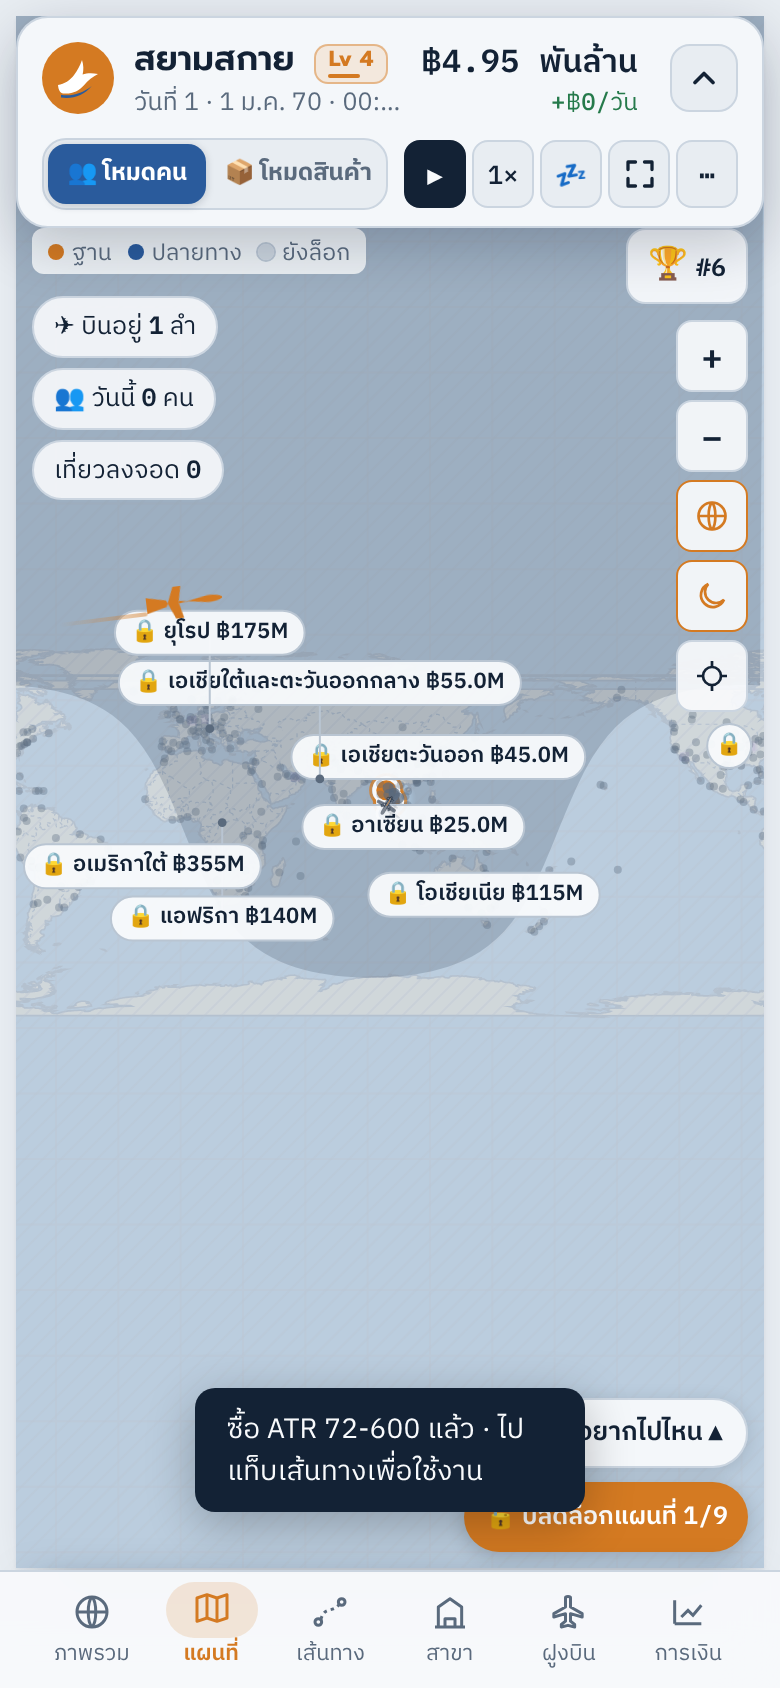
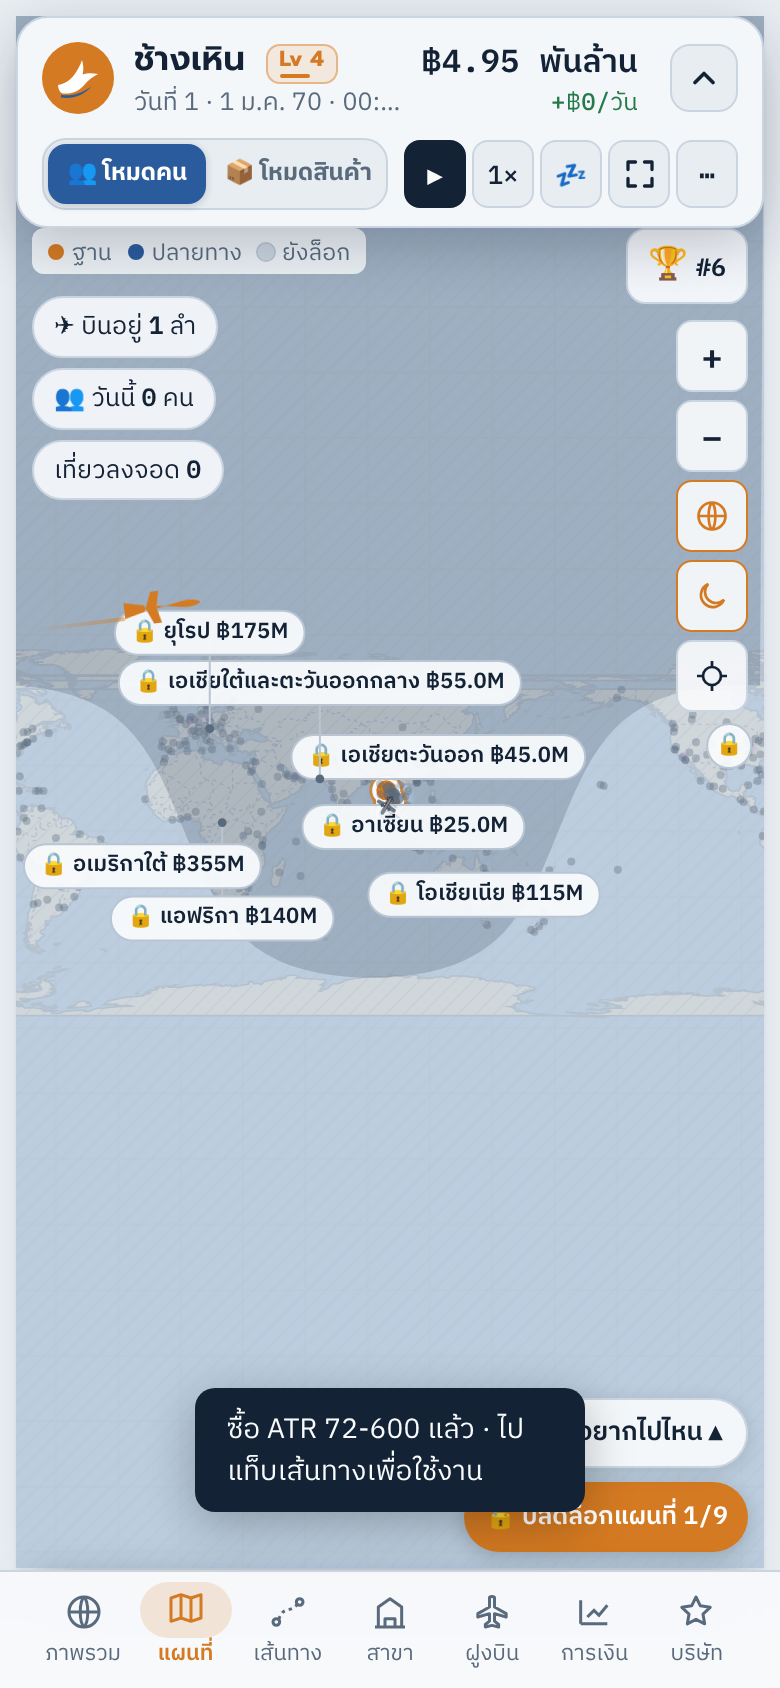
Company tab: clearer competition, and what customers want with action buttons
- Competition shows two labelled measures side by side: table rank (company size, cumulative) and weekly league
  (growth speed, sets rival difficulty), with a short 'what is the difference' note; per-rival results folded away
- 'What customers want': cities asking for a branch (with the unserved cities it would reach), the most wanted route,
  freight and sea-lane requests, a port branch, worn aircraft; each with a button that does it

Claude-Session: https://claude.ai/code/session_014RDu36NGZdJHnhfEAQskbE

diff --git a/js/game.js b/js/game.js
@@ -985,13 +985,23 @@ function leagueTick(){if(!has("rank")||!S.rivals||!S.rivals.length)return;
   if(ta.i>tb.i){celebrate("!⬆ เลื่อนระดับลีก",`${ta.n} · คู่แข่งจะเล่นเก่งขึ้น (${botLvTxt()})`);S.cash+=Math.round(S.startCap*.02*ta.i/1e5)*1e5}
   else if(ta.i<tb.i)addNews(`⬇ ตกระดับลีกเป็น ${ta.n} · คู่แข่งผ่อนลงเป็นระดับ “${botLvTxt()}”`);
   S.lg=snap()}
+// the competition has two different measures; show them side by side and say plainly what each one is
+function competeHTML(){const sr=mySR(),t=tierOf(sr),n=S.rivals.length+1,L=(S.lgHist||[])[0];
+  return `<div class="cmp2"><div class="panel cbox"><span class="eyebrow">📋 อันดับในตาราง</span><b class="num">#${rank()}<small> / ${n}</small></b><span class="small muted">วัดจาก <b>ขนาด</b> บริษัท: มูลค่า ผู้โดยสาร สินค้า เรตติ้ง ภารกิจ (สะสมตลอดเกม)</span></div>
+    <div class="panel cbox"><span class="eyebrow">🏅 ลีกรายสัปดาห์</span><b style="color:${t.col}">${t.n}</b><span class="small muted">วัดจาก <b>ความเร็วในการโต</b> ทุก 7 วัน · SR ${sr}${L?` · สัปดาห์ก่อน ชนะ ${L.w} แพ้ ${L.l}`:""}</span></div></div>
+   <details class="more panel"><summary>สองอย่างนี้ต่างกันยังไง ▾</summary><ul class="small">
+     <li><b>ตารางอันดับ</b> เหมือนตารางคะแนนสะสม บริษัทใหญ่กว่าอยู่สูงกว่า ยิ่งเล่นนานยิ่งขึ้น ไม่มีลง</li>
+     <li><b>ลีกรายสัปดาห์</b> (ทองแดง → เงิน → ทอง → แพลทินัม → เพชร → มาสเตอร์ → ตำนาน) ทุก 7 วันเทียบว่าสัปดาห์นี้คุณโตกี่ % กับคู่แข่งแต่ละเจ้า โตเร็วกว่า = ชนะ ได้ SR เพิ่ม · ช้ากว่า = แพ้ SR ลด</li>
+     <li>ลีกมีไว้ปรับความยาก: ระดับสูง คู่แข่งเก่งขึ้น ระดับต่ำ คู่แข่งผ่อนลง · ตอนนี้คู่แข่งเล่นระดับ <b>${botLvTxt()}</b></li>
+     <li>ใหญ่ที่สุดแต่หยุดโต ก็อาจอยู่ #1 ในตาราง แต่ตกลีกได้</li></ul></details>
+   <div class="panel"><div class="eyebrow" style="margin-bottom:4px">🏅 ลีกรายสัปดาห์ · วัดจากความเร็วในการโต</div>${leagueHTML()}</div>`}
 function leagueHTML(compact){if(!has("rank"))return "";const sr=mySR(),t=tierOf(sr),L=S.lgHist||[],last=L[0],left=S.lg?Math.max(0,LG_WEEK-(S.day-S.lg.start)):LG_WEEK;
   const pc=t.hi?clamp((sr-t.lo)/(t.hi-t.lo),0,1)*100:100;
   return `<div class="league"><div class="row between"><span class="lg-tier" style="color:${t.col}">${t.n}</span><span class="num"><b>SR ${sr}</b>${last?` <span class="${last.ch>=0?"good":"bad"} small">${last.ch>=0?"▲":"▼"}${Math.abs(last.ch)}</span>`:""}</span></div>
     <div class="bar lg-bar"><i style="width:${pc}%;background:${t.col}"></i></div>
     <div class="row between small muted"><span>${t.hi?`อีก ${t.hi-sr} SR ถึง ${tierOf(t.hi).n}`:"ระดับสูงสุดแล้ว"}</span><span>คู่แข่ง: <b style="color:var(--ink)">${botLvTxt()}</b></span></div>
-    <div class="small muted">สัปดาห์ลีกนี้เหลือ ${left} วัน · ชนะคู่แข่งที่คะแนนโตช้ากว่าคุณ${last?` · สัปดาห์ก่อน ชนะ ${last.w} เสมอ ${last.dr} แพ้ ${last.l}`:""}</div>
-    ${!compact&&last?`<div class="lg-res">${last.res.map(x=>`<span class="${x.o===1?"good":x.o===0?"bad":"muted"}">${x.o===1?"ชนะ":x.o===0?"แพ้":"เสมอ"} ${esc(x.n)} <small class="num">(${x.g>=0?"+":""}${x.g}%)</small></span>`).join("")}</div>`:""}</div>`}
+    <div class="small muted">สัปดาห์นี้เหลือ ${left} วัน · โตเร็วกว่าคู่แข่งเจ้าไหน = ชนะเจ้านั้น${last?` · สัปดาห์ก่อน ชนะ ${last.w} เสมอ ${last.dr} แพ้ ${last.l}`:""}</div>
+    ${!compact&&last?`<details class="more"><summary class="small">ผลสัปดาห์ก่อนกับคู่แข่งแต่ละเจ้า (คุณโต ${last.myG}%) ▾</summary><div class="lg-res">${last.res.map(x=>`<span class="${x.o===1?"good":x.o===0?"bad":"muted"}">${x.o===1?"ชนะ":x.o===0?"แพ้":"เสมอ"} ${esc(x.n)} <small class="num">(เขาโต ${x.g>=0?"+":""}${x.g}%)</small></span>`).join("")}</div></details>`:""}</div>`}
 function rivalTurn(){
   const myV=valuation(),pax=S.routes.filter(r=>rkind(r)==="pax"&&r.planes.length&&r.last);
   const contested=pax.filter(r=>r.cmp).length,lead=rank()===1;
@@ -1410,6 +1420,24 @@ function commentsList(){const L=S.last||{},out=[],R=S.rating;
   const fights=S.routes.filter(r=>r.cmp).length;
   if(has("rank")&&S.day>10)say("ข่าวการบิน","📰",fights>3?3:rank()===1?4.8:3.8,fights>3?`${S.name} กำลังโดนคู่แข่งบุกหลายเส้นทางพร้อมกัน`:rank()===1?`${S.name} ขึ้นเป็นสายการบินอันดับหนึ่งของภูมิภาค`:`${S.name} อยู่อันดับ ${rank()} และกำลังไล่ตามผู้นำ`);
   return out}
+function suggestList(){const out=[],served=new Set([...S.bases,...S.routes.map(r=>r.dest),...S.routes.map(r=>r.from)]);
+  // a city that wants a branch: big, open, not a branch yet, with many unserved cities within reach of a narrow-body
+  if(has("branch")){const cand=CITIES.filter(c=>!S.bases.includes(c.c)&&isOpen(c.c)&&aptTakes(c.c,"pax")&&c.w>=5).map(c=>{const near=CITIES.filter(x=>x.c!==c.c&&isOpen(x.c)&&aptTakes(x.c,"pax")&&!served.has(x.c)&&dist(c,x)<3000).sort((a,b)=>b.w-a.w);return {c,near,sc:c.w+near.length*.6}}).sort((a,b)=>b.sc-a.sc).slice(0,2);
+    for(const {c,near} of cand)if(near.length>=2)out.push({av:"🏙",who:`ชาว${c.n}`,t:`อยากให้มาตั้งสาขาที่${c.n} จะได้บินตรงไป ${near.slice(0,3).map(x=>x.n).join(" ")} ได้`,btn:`ตั้งสาขา ${money(branchCost(c),true)}`,attr:`data-brnew="${c.c}"`,dis:S.cash<branchCost(c)})}
+  // the most wanted passenger route
+  const op=oppsList().find(o=>o.profit>0);if(op)out.push({av:"🧳",who:`คน${city(op.from).n}`,t:`อยากบินไป${op.w.c.n} วันละ ~${Math.round(op.w.dem).toLocaleString()} คน แต่เรายังไม่มีเที่ยวบิน`,btn:"เปิดเส้นทาง",attr:`data-wish="${op.from}>${op.w.c.c}"`});
+  // freight
+  if(has("cargo")){let best=null;for(const code of S.bases.filter(c=>aptTakes(c,"cargo")))for(const w of cargoWants(code,false))if(!best||w.k.all>best.w.k.all)best={code,w};
+    if(best&&best.w.k.all>=10)out.push({av:"📦",who:"ผู้ส่งสินค้า",t:`อยากส่งของจาก${city(best.code).n}ไป${best.w.n} วันละ ~${Math.round(best.w.k.all).toLocaleString()} ตัน`,btn:"เปิดเส้นทางสินค้า",attr:`data-cwish="${best.code}>${best.w.to}"`})}
+  // sea
+  if(has("sea")){if(!pbList().length){const pt=PORTS.filter(x=>portOpen(x.c)).sort((a,b)=>b.w-a.w)[0];if(pt)out.push({av:"⚓",who:"บริษัทขนส่งทางเรือ",t:`อยากให้เปิดสาขาท่าเรือที่${pt.n} จะได้ส่งตู้สินค้าทางเรือกับเรา`,btn:"ไปหน้าสาขาท่าเรือ",attr:`data-brgo="sea"`})}
+    else{let best=null;for(const code of pbList().filter(portOpen))for(const w of cargoWants(code,true))if(!best||w.k.all>best.w.k.all)best={code,w};
+      if(best&&best.w.k.all>=20)out.push({av:"🚢",who:"บริษัทขนส่งทางเรือ",t:`อยากส่งตู้จาก${port(best.code).n}ไป${best.w.n} วันละ ~${Math.round(best.w.k.all).toLocaleString()} TEU`,btn:"เปิดเส้นทางเรือ",attr:`data-lwish="${best.code}>${best.w.to}"`})}}
+  // worn aircraft
+  const worn=S.fleet.filter(p=>p.cond<45&&p.down<=S.day);if(worn.length)out.push({av:"🔧",who:"ช่างซ่อมบำรุง",t:`เครื่อง ${worn.slice(0,3).map(p=>p.reg).join(", ")} สภาพต่ำกว่า 45% ควรส่งซ่อมก่อนเสียกลางทาง`,btn:"ไปฝูงบิน",attr:`data-go="fleet"`});
+  return out.slice(0,6)}
+function suggestHTML(){const L=suggestList();if(!L.length)return "";
+  return secHead("💡","ลูกค้าอยากให้ทำอะไร","กดปุ่มเพื่อทำตามคำขอได้เลย")+`<div class="cmts">${L.map(x=>`<div class="cmt sug"><span class="cav">${x.av}</span><div style="min-width:0"><b class="small">${x.who}</b><div class="small">“${esc(x.t)}”</div></div><button class="btn sm primary" ${x.attr} ${x.dis?"disabled":""}>${x.btn}</button></div>`).join("")}</div>`}
 function commentsHTML(){const C=commentsList();if(!C.length)return `<div class="panel muted small">ยังไม่มีความคิดเห็น เริ่มบินหรือเดินเรือแล้วลูกค้าจะเริ่มพูดถึงบริษัท</div>`;
   return `<div class="cmts">${C.map(c=>`<div class="cmt"><span class="cav">${c.av}</span><div style="min-width:0"><div class="row between"><b class="small">${c.who}</b>${starsHTML(c.st,11)}</div><div class="small">“${esc(c.t)}”</div></div></div>`).join("")}</div>`}
 /* Company tab: the airline itself — who you are, how people rate you, how you stand, where you are going */
@@ -1426,7 +1454,8 @@ function companyHTML(){
      <div><div class="k">เส้นทาง</div><div class="v num">${S.routes.length+(S.lanes||[]).length}</div></div>
      <div><div class="k">สาขา</div><div class="v num">${S.bases.length+pbList().length}</div></div></div>
    ${has("rank")?secHead("⭐","เรตติ้งและความคิดเห็น","ลูกค้า ลูกเรือ และสื่อพูดถึงเรา")+ratingHTML()+commentsHTML():secHead("💬","ความคิดเห็น")+commentsHTML()}
-   ${has("rank")?secHead("🏆","การแข่งขันและลีก")+`<div class="panel">${leagueHTML()}<div class="board">${board.map((b,i)=>`<div class="r ${b.me?"me":""}"><span class="num muted">#${i+1}</span><span class="nm" style="min-width:0">${esc(b.n)}<br>${starsHTML(b.st||0,11)} <span class="num muted" style="font-size:11px">${(b.st||0).toFixed(1)}</span></span><span class="num">${b.sc.toLocaleString()}<span class="muted small"> คะแนน</span></span></div>`).join("")}</div></div>`:""}
+   ${suggestHTML()}
+   ${has("rank")?secHead("🏆","การแข่งขัน")+competeHTML()+`<div class="panel"><div class="eyebrow" style="margin-bottom:4px">📋 ตารางอันดับ · วัดจากขนาดบริษัท</div><div class="board">${board.map((b,i)=>`<div class="r ${b.me?"me":""}"><span class="num muted">#${i+1}</span><span class="nm" style="min-width:0">${esc(b.n)}<br>${starsHTML(b.st||0,11)} <span class="num muted" style="font-size:11px">${(b.st||0).toFixed(1)}</span></span><span class="num">${b.sc.toLocaleString()}<span class="muted small"> คะแนน</span></span></div>`).join("")}</div></div>`:""}
    ${secHead("🎯","เป้าหมายบริษัท")}<div class="panel stack" style="gap:8px"><div class="row between"><div><div class="eyebrow">เป้าหมายถัดไป</div><b>${S.goal>=GOALS.length?"พิชิตครบทุกระดับแล้ว":g[1]}</b></div><span class="num muted small">${money(v,true)} / ${money(g[0],true)}</span></div><div class="bar"><i style="width:${gp}%"></i></div>
      <div class="goals">${GOALS.map((x,i)=>`<span class="${i<S.goal?"done":i===S.goal?"now":""}">${i<S.goal?"✓":i+1} ${x[1]}</span>`).join("")}</div></div>
    ${has("perks")?secHead("🔬","ศูนย์พัฒนา","อัปเกรดถาวร")+perksHTML():""}
@@ -2287,6 +2316,8 @@ function bindWishes(){
   $$("[data-wish]").forEach(b=>b.onclick=e=>{e.stopPropagation();const [f,t]=b.dataset.wish.split(">");openSheet(newRouteSheet({from:f,kind:"pax",dest:t}))});
   $$("[data-wunlock]").forEach(b=>b.onclick=e=>{e.stopPropagation();openSheet(regionSheet({id:b.dataset.wunlock}))});
   $$("[data-wroute]").forEach(b=>b.onclick=e=>{e.stopPropagation();openSheet(routeSheet(+b.dataset.wroute,{}))});
+  $$("[data-brnew]").forEach(b=>b.onclick=e=>{e.stopPropagation();const c=b.dataset.brnew;openBranch(c);if(S.bases.includes(c)){toast(`ตั้งสาขาที่${city(c).n}แล้ว เปิดเส้นทางจากที่นี่ได้เลย`);renderView()}});
+  $$("[data-brgo]").forEach(b=>b.onclick=e=>{e.stopPropagation();tab="branch";brSeg=b.dataset.brgo;renderView(true);window.scrollTo(0,0)});
   $$("[data-cwish]").forEach(b=>b.onclick=e=>{e.stopPropagation();const [f,t]=b.dataset.cwish.split(">");openSheet(newRouteSheet({from:f,kind:"cargo",dest:t}))});
   $$("[data-lwish]").forEach(b=>b.onclick=e=>{e.stopPropagation();const [f,t]=b.dataset.lwish.split(">");openSheet(newLaneSheet({from:f,to:t}))});
   const rw=()=>{const wp=$("#wishpanel");if(wp){wp.innerHTML=mapWishHTML();bindWishes()}};

diff --git a/css/style.css b/css/style.css
@@ -783,3 +783,9 @@ h1,h2,h3,.eyebrow{letter-spacing:0}
 .goals span.done{color:var(--good);border-color:color-mix(in srgb,var(--good) 40%,var(--line))}
 .goals span.now{color:var(--accent);border-color:var(--accent);font-weight:600}
 .cogo{width:100%;text-align:left;cursor:pointer}
+
+/* competition: two measures side by side */
+.cmp2{display:grid;grid-template-columns:1fr 1fr;gap:8px}
+.cbox{display:flex;flex-direction:column;gap:2px}
+.cbox>b{font-family:var(--f-display);font-size:22px;line-height:1.2}.cbox>b small{font-size:13px;color:var(--muted)}
+.cmt.sug{grid-template-columns:auto 1fr auto;align-items:center}
